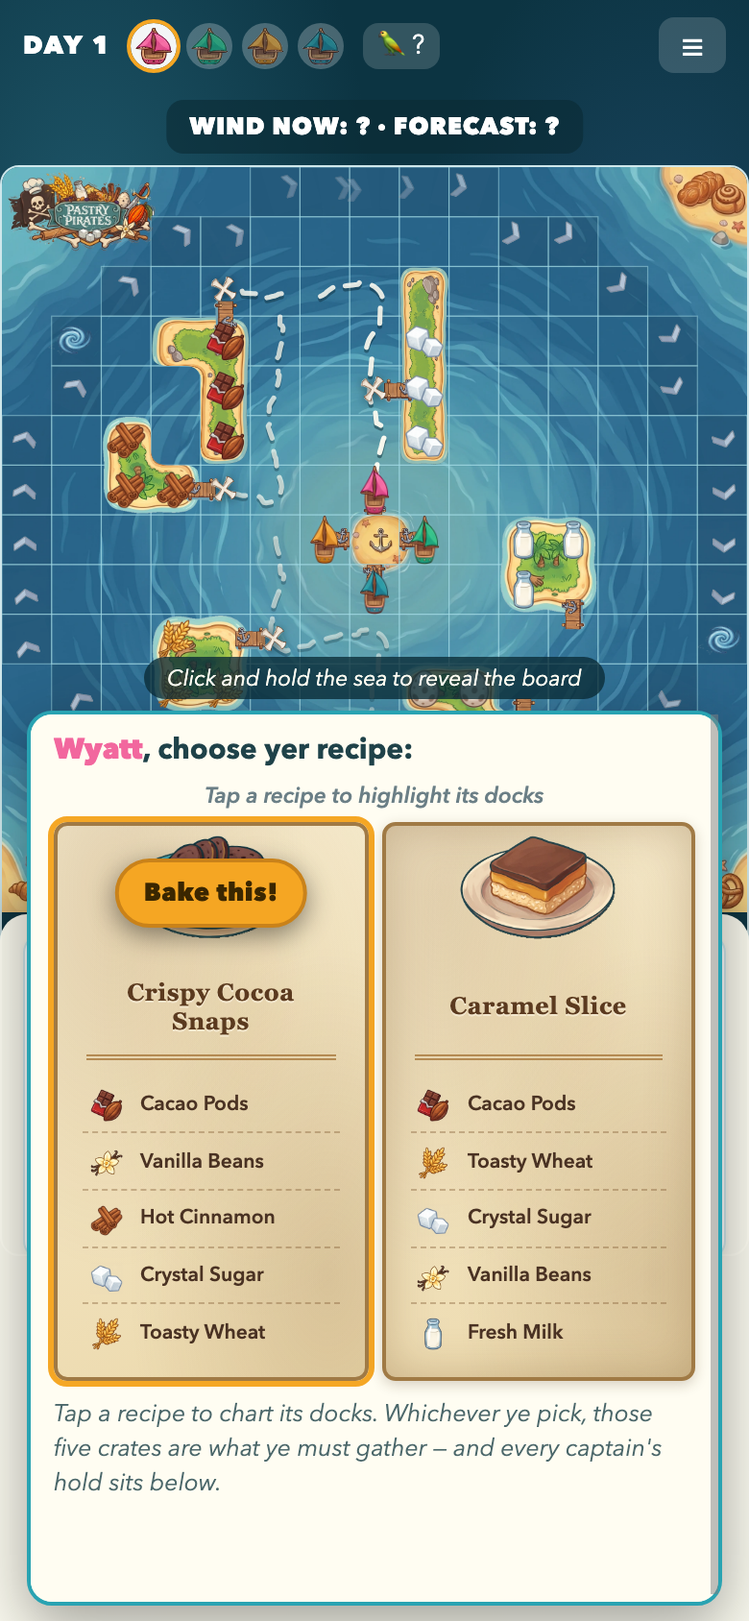
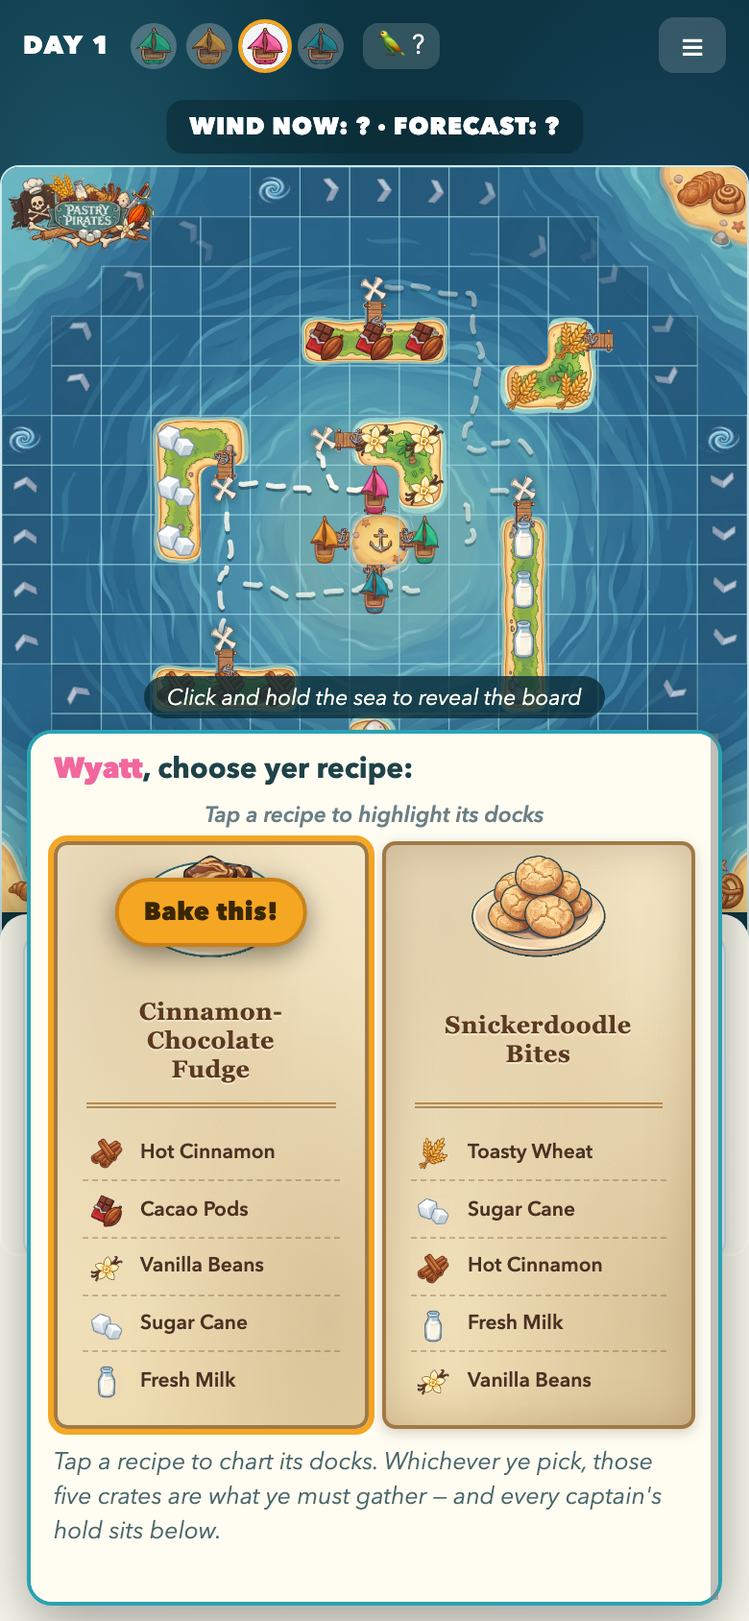
Crate becomes ingredient, and sugar becomes Sugar Cane
W2, applied from his own 31 rulings read back out of the artifact rather than re-asked:
20 change, 11 keep. Audited line by line, never found-and-replaced — his condition, and
his reason: "there may actually still be some legitimate uses for it, like a crate of
sugar should not be an ingredient of sugar."

THE RULE, in his words: refer to ingredients as ingredients unless referring to them as a
UNIT of ingredients. Crates survive in exactly three places — an island's stock (a count,
which is what makes the price rise), the bake-off bench, and the dock's arrival line.

CHANGED (r01-r18): the dock flip's "ye may then buy a crate" — the first time a new player
is ever offered one, seconds after being told to gather INGREDIENTS, and the most important
line on the list; the two shelves-be-bare lines; three battle-bribe lines; the End of
Voyage badge; three black-market lines; two trade lines; and five lines of the How-to-play
text.

KEPT (r19-r29): every bake-off line, because the crate is why the ingredients are jumbled —
his cup-and-ball reason — including "Opening the crates…", the one sentence I had said
would need rewriting and which his ruling makes correct as it stands. Also the island's
stock, the artwork alt text, and crate-overboard.png, because a drawing of a crate is a
crate.

FIVE NAMES FOR ONE OBJECT BECOME ONE. DOCK_FLAVOR said "a jar of", "a sack of", "some jugs
of", "a pod of", "a dozen", "sprigs of" — and four of its seven names did not match the
[…]

diff --git a/index.html b/index.html
@@ -3017,12 +3017,12 @@
       <p><b>🌬 Wind.</b> Each day the wind picks a direction and holds it for the whole table. Look at the compass: the big needle is this day's wind, and the ghost needle behind it is <b>next</b> day's. <span data-engine-rule="forecast">That forecast is never wrong, so ye can plan around it — save for a storm, which the compass warns ye of a day ahead but won't say which way it'll blow.</span></p>
       <p><b>⛵ Sail.</b> Sailing is <b>free</b>. Move up to <b data-rule="sailRange"></b> squares in any mix of directions — but the moment yer route bites into the wind, even for one square, the whole move is capped at <b data-rule="sailUpwind"></b>. Across the wind doesn't count against ye. Sail past other ships, but don't end on one.</p>
       <p><b>⚓ Act</b> — choose one:</p>
-      <p><b>Dock</b> — tie up at an island's dock (one ship at a time!) and flip for yer fortune: <b>heads</b> ye strike buried treasure and take <b data-rule="dockHeads"></b>🌕; <b>tails</b> ye spend the turn workin' the docks for <b data-rule="dockTails"></b>🌕. Either way ye may then <b>buy</b> a crate, with the coin ye just earned. Stay as long as ye like and keep flipping.</p>
+      <p><b>Dock</b> — tie up at an island's dock (one ship at a time!) and flip for yer fortune: <b>heads</b> ye strike buried treasure and take <b data-rule="dockHeads"></b>🌕; <b>tails</b> ye spend the turn workin' the docks for <b data-rule="dockTails"></b>🌕. Either way ye may then <b>buy</b> an ingredient, with the coin ye just earned. Stay as long as ye like and keep flipping.</p>
       <p><b>💰 Crate prices rise.</b> A crate costs <b data-rule="crateBase"></b>🌕 <b>minus however many are left on that island</b> — so the first off a full island is <b data-rule="priceFirst"></b>🌕, the next <b data-rule="priceNext"></b>🌕, and the last one <b data-rule="priceLast"></b>🌕. Get there first, or pay for dawdling. Ye may buy crates that aren't on yer recipe — they make excellent trade bait...</p>
-      <p><b>🕯 The black market.</b> A sold-out island always has ONE more crate under the counter — a flat <b data-rule="blackMarket"></b>🌕, forever. Steep, but no recipe is ever truly dead. Skint? The black market'll also take <b>any two crates</b> from yer hold in trade for it — even two of the same.</p>
-      <p><b>Attack</b> — fight an adjacent ship! Pay <b data-rule="powder"></b>🌕 for powder, then <b>one broadside each</b>. Heads beats tails. Both heads? The captain firing <b>downwind</b> lands the shot — a crosswind clash and the cannonballs collide. Both tails and the defender may slip away, <b>free</b>. If the shot doesn't tell, the attacker may pay <b data-rule="refire"></b>🌕 to load another broadside and fire alone — heads and it lands — as often as they can pay. Break off and the battle ends with <b>nobody gaining a thing</b>. The winner takes <b>one crate</b> of their choosing. Nobody changes squares. <b>Every dock is raidable</b> — a berth protects nobody. <span data-engine-rule="sanctuary">But once a captain's ovens are lit they're beyond yer reach — rob 'em on the way home, or not at all.</span> Ye can't attack a ship with an empty hold; there's nothing to take.</p>
+      <p><b>🕯 The black market.</b> A sold-out island always has ONE more ingredient under the counter — a flat <b data-rule="blackMarket"></b>🌕, forever. Steep, but no recipe is ever truly dead. Skint? The black market'll also take <b>any two ingredients</b> from yer hold in trade for it — even two of the same.</p>
+      <p><b>Attack</b> — fight an adjacent ship! Pay <b data-rule="powder"></b>🌕 for powder, then <b>one broadside each</b>. Heads beats tails. Both heads? The captain firing <b>downwind</b> lands the shot — a crosswind clash and the cannonballs collide. Both tails and the defender may slip away, <b>free</b>. If the shot doesn't tell, the attacker may pay <b data-rule="refire"></b>🌕 to load another broadside and fire alone — heads and it lands — as often as they can pay. Break off and the battle ends with <b>nobody gaining a thing</b>. The winner takes <b>one ingredient</b> of their choosing. Nobody changes squares. <b>Every dock is raidable</b> — a berth protects nobody. <span data-engine-rule="sanctuary">But once a captain's ovens are lit they're beyond yer reach — rob 'em on the way home, or not at all.</span> Ye can't attack a ship with an empty hold; there's nothing to take.</p>
       <p><b>🔭 Callin' the fight.</b> Any captain not in it may call the winner from the crow's nest. It's <b>free</b>, it costs ye nothing to be wrong, and ye get <b data-rule="callBounty"></b>🌕 from the bank if yer right. Nobody's paid on a battle that ends with no winner.</p>
-      <p><b>Trade</b> — hail the <b>whole table</b> at once. Say what ye <b>want</b> and what ye'll <b>give</b> — crates, coins, or both. Every captain holding it answers: accept, deny, or name their price. Ye see every answer together, then take one or walk away. One round of haggling, and no bonus for shaking hands.</p>
+      <p><b>Trade</b> — hail the <b>whole table</b> at once. Say what ye <b>want</b> and what ye'll <b>give</b> — ingredients, coins, or both. Every captain holding it answers: accept, deny, or name their price. Ye see every answer together, then take one or walk away. One round of haggling, and no bonus for shaking hands.</p>
       <p><b>Muse</b> — do none of it. Sit back, dream o' pastry, and pocket <b data-rule="passCoin"></b>🌕 for yer patience.</p>
       <h4><img class="narrIcon" src="assets/icons/current-swirl.png" alt=""> The trade winds</h4>
       <p>The sea around the rim of the world flows in a mighty clockwise current, in arcs of varying length each game. Sail (or get blown) into it and yer instantly swept to the far corner of that stretch — a daring shortcut for captains in a hurry!</p>
@@ -3032,7 +3032,7 @@
       <p>Dock at Tortuga holdin' yer whole recipe and yer ovens light <b>that very turn</b>. Yer recipe's revealed, yer ingredient crates get shuffled before yer eyes — and ye must name them back <b>in the recipe's own order</b>, from memory. Pay <b data-rule="bakeRewatch"></b>🌕 to watch the shuffle again, as often as yer purse allows.</p>
       <p>Crates ye place right <b>lock in</b>; the rest get shuffled again tomorrow, and ye bake again — yer attempt IS yer turn. The whole table watches every bake, so make it a show. Get every crate in its place and ye've baked it!</p>
       <h4><img class="narrIcon" src="assets/icons/crown.png" alt=""> Winning</h4>
-      <p>First captain to bake their full recipe wins the voyage. Two captains bakin' it on the same day? No contest — they <b>bake together</b>. <b>Best Baker</b> goes to whoever brought the most to the bench: most crates in the hold, then most coin, then whoever got home first.</p>
+      <p>First captain to bake their full recipe wins the voyage. Two captains bakin' it on the same day? No contest — they <b>bake together</b>. <b>Best Baker</b> goes to whoever brought the most to the bench: most ingredients in the hold, then most coin, then whoever got home first.</p>
       <p><i>May yer flips be heads and yer rivals be broke.</i></p>
       <!-- T-100 / CEO 171. THE ONLY CRAWLABLE LINK FROM THE GAME TO ITS OWN RULES PAGE, and it was
            missing: the footer's "How to play" is a <button>, so a search engine following links

diff --git a/rules.html b/rules.html
@@ -91,12 +91,12 @@
   <p><b>🌬 Wind.</b> Each day the wind picks a direction and holds it for the whole table. Look at the compass: the big needle is this day's wind, and the ghost needle behind it is <b>next</b> day's. <span data-engine-rule="forecast">That forecast is never wrong, so ye can plan around it — save for a storm, which the compass warns ye of a day ahead but won't say which way it'll blow.</span></p>
   <p><b>⛵ Sail.</b> Sailing is <b>free</b>. Move up to <b data-rule="sailRange">4</b> squares in any mix of directions — but the moment yer route bites into the wind, even for one square, the whole move is capped at <b data-rule="sailUpwind">2</b>. Across the wind doesn't count against ye. Sail past other ships, but don't end on one.</p>
   <p><b>⚓ Act</b> — choose one:</p>
-  <p><b>Dock</b> — tie up at an island's dock (one ship at a time!) and flip for yer fortune: <b>heads</b> ye strike buried treasure and take <b data-rule="dockHeads">3</b>🌕; <b>tails</b> ye spend the turn workin' the docks for <b data-rule="dockTails">1</b>🌕. Either way ye may then <b>buy</b> a crate, with the coin ye just earned. Stay as long as ye like and keep flipping.</p>
+  <p><b>Dock</b> — tie up at an island's dock (one ship at a time!) and flip for yer fortune: <b>heads</b> ye strike buried treasure and take <b data-rule="dockHeads">3</b>🌕; <b>tails</b> ye spend the turn workin' the docks for <b data-rule="dockTails">1</b>🌕. Either way ye may then <b>buy</b> an ingredient, with the coin ye just earned. Stay as long as ye like and keep flipping.</p>
   <p><b>💰 Crate prices rise.</b> A crate costs <b data-rule="crateBase">6</b>🌕 <b>minus however many are left on that island</b> — so the first off a full island is <b data-rule="priceFirst">3</b>🌕, the next <b data-rule="priceNext">4</b>🌕, and the last one <b data-rule="priceLast">5</b>🌕. Get there first, or pay for dawdling. Ye may buy crates that aren't on yer recipe — they make excellent trade bait...</p>
-  <p><b>🕯 The black market.</b> A sold-out island always has ONE more crate under the counter — a flat <b data-rule="blackMarket">10</b>🌕, forever. Steep, but no recipe is ever truly dead. Skint? The black market'll also take <b>any two crates</b> from yer hold in trade for it — even two of the same.</p>
-  <p><b>Attack</b> — fight an adjacent ship! Pay <b data-rule="powder">2</b>🌕 for powder, then <b>one broadside each</b>. Heads beats tails. Both heads? The captain firing <b>downwind</b> lands the shot — a crosswind clash and the cannonballs collide. Both tails and the defender may slip away, <b>free</b>. If the shot doesn't tell, the attacker may pay <b data-rule="refire">2</b>🌕 to load another broadside and fire alone — heads and it lands — as often as they can pay. Break off and the battle ends with <b>nobody gaining a thing</b>. The winner takes <b>one crate</b> of their choosing. Nobody changes squares. <b>Every dock is raidable</b> — a berth protects nobody. <span data-engine-rule="sanctuary">But once a captain's ovens are lit they're beyond yer reach — rob 'em on the way home, or not at all.</span> Ye can't attack a ship with an empty hold; there's nothing to take.</p>
+  <p><b>🕯 The black market.</b> A sold-out island always has ONE more ingredient under the counter — a flat <b data-rule="blackMarket">10</b>🌕, forever. Steep, but no recipe is ever truly dead. Skint? The black market'll also take <b>any two ingredients</b> from yer hold in trade for it — even two of the same.</p>
+  <p><b>Attack</b> — fight an adjacent ship! Pay <b data-rule="powder">2</b>🌕 for powder, then <b>one broadside each</b>. Heads beats tails. Both heads? The captain firing <b>downwind</b> lands the shot — a crosswind clash and the cannonballs collide. Both tails and the defender may slip away, <b>free</b>. If the shot doesn't tell, the attacker may pay <b data-rule="refire">2</b>🌕 to load another broadside and fire alone — heads and it lands — as often as they can pay. Break off and the battle ends with <b>nobody gaining a thing</b>. The winner takes <b>one ingredient</b> of their choosing. Nobody changes squares. <b>Every dock is raidable</b> — a berth protects nobody. <span data-engine-rule="sanctuary">But once a captain's ovens are lit they're beyond yer reach — rob 'em on the way home, or not at all.</span> Ye can't attack a ship with an empty hold; there's nothing to take.</p>
   <p><b>🔭 Callin' the fight.</b> Any captain not in it may call the winner from the crow's nest. It's <b>free</b>, it costs ye nothing to be wrong, and ye get <b data-rule="callBounty">2</b>🌕 from the bank if yer right. Nobody's paid on a battle that ends with no winner.</p>
-  <p><b>Trade</b> — hail the <b>whole table</b> at once. Say what ye <b>want</b> and what ye'll <b>give</b> — crates, coins, or both. Every captain holding it answers: accept, deny, or name their price. Ye see every answer together, then take one or walk away. One round of haggling, and no bonus for shaking hands.</p>
+  <p><b>Trade</b> — hail the <b>whole table</b> at once. Say what ye <b>want</b> and what ye'll <b>give</b> — ingredients, coins, or both. Every captain holding it answers: accept, deny, or name their price. Ye see every answer together, then take one or walk away. One round of haggling, and no bonus for shaking hands.</p>
   <p><b>Muse</b> — do none of it. Sit back, dream o' pastry, and pocket <b data-rule="passCoin">1</b>🌕 for yer patience.</p>
   <h4><img class="narrIcon" src="assets/icons/current-swirl.png" alt=""> The trade winds</h4>
   <p>The sea around the rim of the world flows in a mighty clockwise current, in arcs of varying length each game. Sail (or get blown) into it and yer instantly swept to the far corner of that stretch — a daring shortcut for captains in a hurry!</p>
@@ -106,7 +106,7 @@
   <p>Dock at Tortuga holdin' yer whole recipe and yer ovens light <b>that very turn</b>. Yer recipe's revealed, yer ingredient crates get shuffled before yer eyes — and ye must name them back <b>in the recipe's own order</b>, from memory. Pay <b data-rule="bakeRewatch">1</b>🌕 to watch the shuffle again, as often as yer purse allows.</p>
   <p>Crates ye place right <b>lock in</b>; the rest get shuffled again tomorrow, and ye bake again — yer attempt IS yer turn. The whole table watches every bake, so make it a show. Get every crate in its place and ye've baked it!</p>
   <h4><img class="narrIcon" src="assets/icons/crown.png" alt=""> Winning</h4>
-  <p>First captain to bake their full recipe wins the voyage. Two captains bakin' it on the same day? No contest — they <b>bake together</b>. <b>Best Baker</b> goes to whoever brought the most to the bench: most crates in the hold, then most coin, then whoever got home first.</p>
+  <p>First captain to bake their full recipe wins the voyage. Two captains bakin' it on the same day? No contest — they <b>bake together</b>. <b>Best Baker</b> goes to whoever brought the most to the bench: most ingredients in the hold, then most coin, then whoever got home first.</p>
   <p><i>May yer flips be heads and yer rivals be broke.</i></p>
   </div>
 

diff --git a/src/ui/util.js b/src/ui/util.js
@@ -487,12 +487,12 @@ const EVENT_NARRATION={
     const buyTail=bought
       ?(barter?` — then trades ${gave} to the black market for ${goods}.`
         :e.black?` — then pays the black market for ${goods} ${spent}.`
-        :` — then buys ${goods} ${spent}.`+(e.wentDry?` That were the last crate — the shelves be bare!`:``))
+        :` — then buys ${goods} ${spent}.`+(e.wentDry?` That were the last of it — the shelves be bare!`:``))
       :``;
     const buyTailYou=bought
       ?(barter?` — then ye trade ${gave} to the black market for ${goods}.`
         :e.black?` — then ye pay the black market for ${goods} ${spent}.`
-        :` — then ye buy ${goods} ${spent}.`+(e.wentDry?` Ye took the last crate — the shelves be bare!`:``))
+        :` — then ye buy ${goods} ${spent}.`+(e.wentDry?` Ye took the last of it — the shelves be bare!`:``))
       :``;
     const txt=isLocalTo(e.p,viewerSeat)
       ?(e.heads
@@ -653,7 +653,7 @@ const EVENT_NARRATION={
     // G3: every ${e.spoil} below became ${spoilText}. Not one sentence, clause order or word
     // changed — the only difference is how the spoil AMOUNT is spelled.
     if(e.spoilIng)spoilClause=viewerIsWinner?`Ye take ${spoilText}.`:`${pn(e.winner)} takes ${spoilText}.`;
-    else if(isBribe)spoilClause=viewerIsLoser?`Ye bribe yer way out of giving away a crate with ${spoilText}.`:`${pn(loser)} bribes their way out of giving away a crate with ${spoilText}.`;
+    else if(isBribe)spoilClause=viewerIsLoser?`Ye bribe yer way out of giving away an ingredient with ${spoilText}.`:`${pn(loser)} bribes their way out of giving away an ingredient with ${spoilText}.`;
     // FIX-07 (ruled 2026-07-31, verbatim): an empty-hold loser reads this third line, not the bribe
     // wording and not the all-they-have fallback below.
     else if(isEmptyHoldFive)spoilClause=viewerIsLoser?`Ye give up ${spoilText}.`:`${pn(loser)} gives up ${spoilText}.`;
@@ -681,12 +681,12 @@ const EVENT_NARRATION={
         // shot home. X takes yer cocoa." The spoil is a SECOND sentence here, not the em-dash
         // continuation the score-led head uses, because the head already ends in a full stop.
         if(e.spoilIng)txt=`${windHeadThird} ${pn(e.winner)} takes yer ${spoilText}.`;
-        else if(isBribe)txt=`${windHeadThird} Ye bribe yer way out of givin' away a crate with ${spoilText}.`;
+        else if(isBribe)txt=`${windHeadThird} Ye bribe yer way out of givin' away an ingredient with ${spoilText}.`;
         else if(isEmptyHoldFive)txt=`${windHeadThird} Ye give up ${spoilText}.`;
         else txt=`${windHeadThird} Ye give up all ye have${spoilText?`: ${spoilText}`:""}.`;
       }
       else if(e.spoilIng)txt=`${head} and takes yer ${spoilText}`;
-      else if(isBribe)txt=`${head} — ye bribe yer way out of givin' away a crate with ${spoilText}.`;
+      else if(isBribe)txt=`${head} — ye bribe yer way out of givin' away an ingredient with ${spoilText}.`;
       // FIX-07: mechanical person-swap of the ruled "Ye give up {spoil}." line into this composite's
       // own em-dash-continuation shape, matching the pattern the bribe/all-they-have branches above
       // already use in this same chain.
@@ -1037,7 +1037,7 @@ const BADGE_POOL=[
   // v2 rule 3: no fishing, so the Golden Herring is retired. In its place, the award that
   // actually measures a v2 captain — who spent the most at the docks now that every crate on the
   // board has a price on it (rules 10/11).
-  {key:"cratesBought", img:"doubloon", name:"The Open Purse",                      byline:"Paid the harbourmaster more than any captain on the Sugar Seas.", stat:"Most crates bought", unit:"",         scale:4},
+  {key:"cratesBought", img:"doubloon", name:"The Open Purse",                      byline:"Paid the harbourmaster more than any captain on the Sugar Seas.", stat:"Most ingredients bought", unit:"",         scale:4},
   {key:"dist",         img:"compass",  name:"The Horizon-Chaser's Compass",      byline:"For the salt-crusted soul who sailed further than sense allowed.", stat:"Farthest traveled",  unit:" sq",      scale:45},
   {key:"longestBattle",img:"medal",    name:"The Iron Gut Medal",                byline:"For the crew that refused to sink.",                               stat:"Longest battle",     unit:" rounds",  scale:4},
   {key:"tails",        img:"blackspot",name:"The Black Spot of Bad Tides",       byline:"Survived the curse — worst luck on the Sugar Seas.", stat:"Most tails flipped", unit:" tails", scale:16},

diff --git a/src/shared/index.js b/src/shared/index.js
@@ -215,7 +215,14 @@ const TET=[
   [[0,0],[1,0],[2,0]],[[0,0],[1,0],[0,1]],
   [[0,0],[1,0],[2,0],[3,0]],[[0,0],[1,0],[0,1],[1,1]],
   [[0,0],[1,0],[2,0],[0,1]],[[0,0],[1,0],[1,1],[2,1]],[[0,0],[1,0],[2,0],[1,1]]];
-const ING_NAME={wheat:"Toasty Wheat",dairy:"Fresh Milk",sugar:"Crystal Sugar",eggs:"Speckled Eggs",
+/* sugar: "Crystal Sugar" -> "Sugar Cane", and it is a STRUCTURAL find rather than a word choice.
+   Six of the seven ingredients name the RAW thing a baker transforms; sugar alone named the refined
+   product. "Cacao Pods -> chocolate" asks a player to imagine something; "Crystal Sugar -> sugar"
+   asks nothing. GRAVEYARD, do not re-propose: Sugar Cubes ("no one would ever bake with sugar
+   cubes"), Sugar Loaves ("loaf" primes BREAD in a baking game), Lumps, Casks, Jars, Bricks, and
+   Sugar Gems — which he approved and then withdrew minutes later: "as a human, it just doesn't
+   quite make intuitive sense". */
+const ING_NAME={wheat:"Toasty Wheat",dairy:"Fresh Milk",sugar:"Sugar Cane",eggs:"Speckled Eggs",
   cocoa:"Cacao Pods",vanilla:"Vanilla Beans",spice:"Hot Cinnamon"};
 // the plain baker's term each pirate ingredient stands in for — shown as a gloss on recipe cards
 const ING_PLAIN={wheat:"flour",dairy:"butter & milk",sugar:"sugar",eggs:"eggs",
@@ -237,11 +244,27 @@ const DOCK_PLACE={sugar:"Glitter Bay",vanilla:"Custard Key",spice:"the Spice Isl
 //
 // The name keeps every adjective that belongs to it ("Luscious", "Red-Hot", "Sand-Speckled"). Note
 // `eggs`: its prefix carries no "of" — that asymmetry is exactly why this is data and not a pattern.
-const DOCK_FLAVOR={sugar:{prefix:"a jar of",name:"Crystal Sugar"},vanilla:{prefix:"a bundle of",name:"Velvety Vanilla Beans"},
-  spice:{prefix:"sprigs of",name:"Red-Hot Cinnamon"},wheat:{prefix:"a sack of",name:"Toasty Wheat"},dairy:{prefix:"some jugs of",name:"Fresh Milk"},
-  eggs:{prefix:"a dozen",name:"Sand-Speckled Eggs"},cocoa:{prefix:"a pod of",name:"Luscious Cacao Beans"}};
+/* HIS OWN WORDING, 2026-09-03, and it supersedes my longer draft. Measured: his averages 24.0
+   characters against 25.9 before and 30.3 for mine — "shorter, easier to read" is right, and his
+   is the shortest of the three.
+   FIVE NAMES FOR ONE OBJECT BECOME ONE. "a jar of", "a sack of", "some jugs of", "a pod of",
+   "a dozen", "sprigs of" — every dock said the thing differently, and four of the seven names did
+   not even match the recipe card beside them. Now all seven read "a crate of X", and Cacao Pods,
+   Vanilla Beans, Speckled Eggs and Sugar Cane match their cards exactly.
+   AND THE PHRASE IS THE TEACHING. His reversal of r30: keep the container words EVERYWHERE rather
+   than only in the arrival line, so they "introduce the idea that you buy a crate of an ingredient,
+   so that this doesn't come completely out of the blue at the end of the game during the bakeoff."
+   dockFlavor() is used in exactly three places — the dock narration, the BUY PROMPT and the black
+   market — and the buy prompt is the one moment a captain actually acquires one. r30 as first
+   written would have deleted the teaching moment. */
+const DOCK_FLAVOR={sugar:{prefix:"a crate of",name:"Sugar Cane"},vanilla:{prefix:"a crate of",name:"Vanilla Beans"},
+  spice:{prefix:"a crate of",name:"Cinnamon Sticks"},wheat:{prefix:"a crate of",name:"Wheat Sheaves"},dairy:{prefix:"a crate of",name:"Milk Jugs"},
+  eggs:{prefix:"a crate of",name:"Speckled Eggs"},cocoa:{prefix:"a crate of",name:"Cacao Pods"}};
 const dockPlace=x=>DOCK_PLACE[x]||"the island";
-// UNCHANGED in signature AND in value — all 7 joined strings stay byte-identical, because two things
+// UNCHANGED IN SIGNATURE. The VALUES moved on 2026-09-03 (his seven words above) — the note below
+// described the F5 change and claimed the joined strings stayed byte-identical, which stopped being
+// true the moment those words became his rather than mine. Corrected in place rather than deleted:
+// it still records WHY the {prefix,name} split exists. Two things depended on the values,
 // depend on that: the seven `misc:dockFlavor:<ing>` audit cards render dockFlavor(ing) directly (so
 // Wyatt's seven reviewed rows read exactly as they did), and the neutral dock narration's own
 // wording is not what F5 changes. scripts/narration_test.js pins all 7 against hardcoded literals.  [UNGATED-IN-4: narration_test.js reads the root tree, not this one]

diff --git a/src/ui/flow.js b/src/ui/flow.js
@@ -1660,7 +1660,7 @@ async function pickBarterCrates(player,ing){
     opts.push({label:"← Back",back:true,value:"__back__"});
     // @copy misc.blackmarket.pick1 / pick2 — draft, Wyatt rewrites
     const msg=first===null
-      ?`The black market'll take any 2 crates fer ${dockFlavorIcon(ing)} — what's the first?`
+      ?`The black market'll take any 2 ingredients fer ${dockFlavorIcon(ing)} — what's the first?`
       :`Givin' ${ilabelImg(first)} an' one more fer ${dockFlavorIcon(ing)} — what's the second?`;
     /* THE LAST SHARED HELPER LINE IS GONE (Wyatt, 2026-08-25). It read "Both crates leave the
        Sugar Seas fer good." on the first pick and "Tap it an' the bargain's struck — both crates
@@ -1696,7 +1696,7 @@ export async function humanDock(player,port){
   // already puts explanatory text (and, per the standing top-to-bottom rule, is revealed last).
   // @copy misc.paramprompt.dockflip
   const h=await humanFlip(player,`Docking at ${iconImg(ING_IMG[ing])} ${dockPlace(ing)} — dig for treasure!`,true,
-    `⚪ HEADS strikes buried treasure <span class="nobrk">(+${g.cfg.dockHeads}🌕)</span> · ⚫ TAILS is a turn workin' the docks <span class="nobrk">(+${g.cfg.dockTails}🌕)</span>. Either way, ye may then buy a crate.`);
+    `⚪ HEADS strikes buried treasure <span class="nobrk">(+${g.cfg.dockHeads}🌕)</span> · ⚫ TAILS is a turn workin' the docks <span class="nobrk">(+${g.cfg.dockTails}🌕)</span>. Either way, ye may then buy an ingredient.`);
   if(h==="back")return "back";
   player.coins+=h?g.cfg.dockHeads:g.cfg.dockTails;
   let got=h?"treasure":"dockhand";
@@ -1747,8 +1747,8 @@ export async function humanDock(player,port){
           why:shortWhy},
       ];
       // @copy misc.blackmarket.barterbtn — draft, Wyatt rewrites
-      if(black)opts.push({label:`Trade any 2 crates fer ${ilabelImg(ing)}`,short:`2 crates → ${iconImg(ING_IMG[ing])}`,value:"barter",disabled:!canBarter,
-        why:`The barter takes 2 crates off yer hands, and ye're carryin' ${player.ing.length}.`});
+      if(black)opts.push({label:`Trade any 2 ingredients fer ${ilabelImg(ing)}`,short:`2 → ${iconImg(ING_IMG[ing])}`,value:"barter",disabled:!canBarter,
+        why:`The barter takes 2 ingredients off yer hands, and ye're carryin' ${player.ing.length}.`});
       opts.push({label:"Nah",value:false});
       // @copy misc.blackmarket.whisper — draft, Wyatt rewrites
       /* HIS COPY PASS, 2026-08-25. The black-market whisper said in a sentence what the two
@@ -1922,7 +1922,7 @@ async function counterOffer(q,player,offer){
     const opts=theirs.map(i=>crateOpt(player.ing,i));
     // coin-only is still a legal counter — it is what the old flow could do, kept rather than lost
     opts.push({label:`💰 Coin instead`,short:`💰 Coin`,value:"__coinsonly__",disabled:room<1,
-      why:`${pn(player.idx)} has no coin at all — it must be a crate.`});
+      why:`${pn(player.idx)} has no coin at all — it must be an ingredient.`});
     opts.push({label:`${iconImg(CANCEL_X_IMG)} Deny`,value:"__deny__"});
     opts.push({label:"← Back",back:true,value:"__back__"});
     // @copy prompt.trade.counterwant — APPROVED as written, Wyatt 2026-08-14 ("draft copy is fine")
@@ -2091,7 +2091,7 @@ export async function humanTrade(player){
       const canOfferCoins=player.coins>0;
       const ingOpts=[...new Set(player.ing)].map(i=>crateOpt(player.ing,i));
       ingOpts.push({label:"— coins only —",value:"__coinsonly__",disabled:!canOfferCoins,
-        why:`Yer purse is empty — ye've no coin to offer, so it must be a crate.`});
+        why:`Yer purse is empty — ye've no coin to offer, so it must be an ingredient.`});
       ingOpts.push({label:"← Back",back:true,value:"__back__"});
       // no shared helper line: the greyed "— coins only —" option already carries "Yer purse is
       // empty — ye've no coin to offer, so it must be a crate." (2026-08-25)
